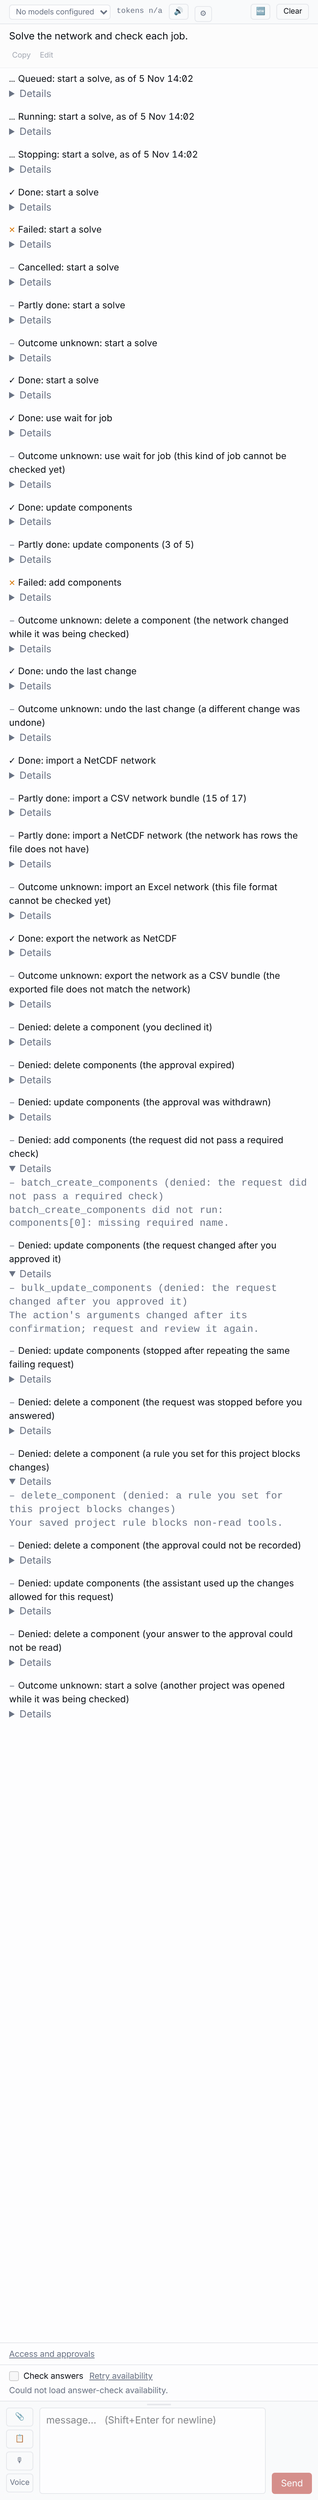
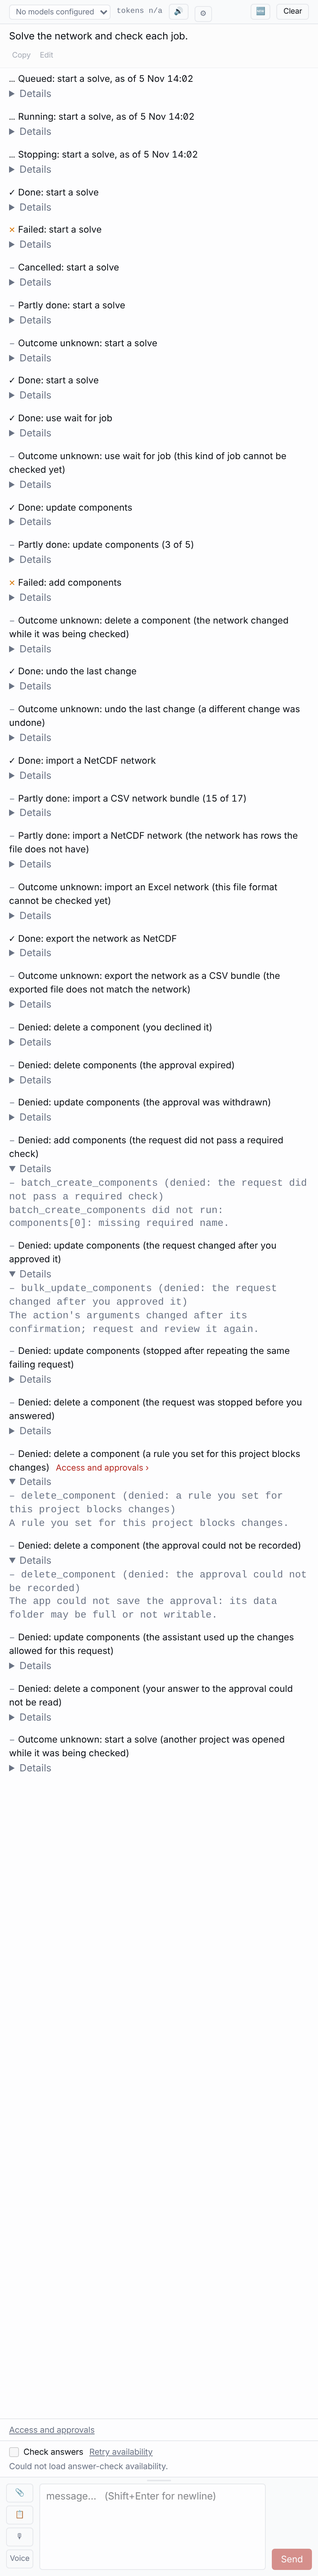
AA-04 S4a: Access and approvals link on a rule-blocked denied line
A user_restriction denied line carries "Access and approvals ›" in both
modes; it opens the same section as the link below the transcript
(ChatAccess's own open state, via openChatAccess). Fixed Details text for
user_restriction and approval_unavailable. Shots regenerated, plus a
focused shot of the linked line.

Claude-Session: https://claude.ai/code/session_01G7qCumzuJ6rKRipAiDvuDt

diff --git a/pypsa-gui/frontend/src/components/ChatPanel.toolOutcome.test.tsx b/pypsa-gui/frontend/src/components/ChatPanel.toolOutcome.test.tsx
@@ -61,6 +61,10 @@ function call(id: string, tool: string, outcome: string | null, jobId: string | 
   emit('tool_result', { tool_use_id: id, tool_name: tool,
     result: outcome === null ? { ok: true } : { _outcome: { version: 1, outcome, job_id: jobId, reason }, status: 'completed', completed: true } })
 }
+const DETAILS: Record<string, string> = {
+  user_restriction: 'A rule you set for this project blocks changes.',
+  approval_unavailable: 'The app could not save the approval: its data folder may be full or not writable.',
+}
 const rows = () => screen.getAllByTestId('chat-message').filter(r => r.dataset.role === 'tool')
 const at = new Date(2026, 10, 5, 14, 2).getTime()
 
@@ -192,7 +196,9 @@ describe('chat tool-line outcome marks', () => {
     expect(mark.dataset.outcome).toBe('denied')
     expect(mark.className).toContain('text-muted')
     expect(within(row).getByTestId('chat-tool-outcome').textContent).toBe(`–bulk_update_components (denied: ${words})`)
-    expect(within(row).getByTestId('chat-tool-message').textContent).toBe('it did not run')
+    expect(within(row).getByTestId('chat-tool-message').textContent).toBe(DETAILS[kind] ?? 'it did not run')
+    if (kind === 'user_restriction') expect(within(row).getByTestId('chat-tool-access-link')).toBeTruthy()
+    else expect(within(row).queryByTestId('chat-tool-access-link')).toBeNull()
     expect(row.textContent).not.toContain(kind)
     expect(row.textContent).not.toContain('✕')
     act(() => useUIStore.setState({ uiMode: 'guided' }))
@@ -235,6 +241,25 @@ describe('chat tool-line outcome marks', () => {
       emit('tool_error', { tool_use_id: 'y', tool_name: 'delete_component', error_kind: kind, message: 'it did not run' })
       expect(screen.getByTestId('chat-error-banner').dataset.errorKind).toBe(kind)
     })
+
+  it.each(['expert', 'guided'] as const)('issue 04 S4a: in %s, a rule-blocked line links to Access and approvals, and only that line', async (mode) => {
+    await turn(mode)
+    emit('tool_error', { tool_use_id: 'r', tool_name: 'delete_component', error_kind: 'user_restriction',
+      message: 'Your saved project rule blocks non-read tools.', _outcome: { version: 1, outcome: 'denied', reason: 'user_restriction' } })
+    emit('tool_error', { tool_use_id: 's', tool_name: 'delete_component', error_kind: 'confirmation_expired',
+      message: 'expired on confirmation for x', _outcome: { version: 1, outcome: 'denied', reason: 'confirmation_expired' } })
+    const links = screen.getAllByTestId('chat-tool-access-link')
+    expect(links).toHaveLength(1)
+    expect(links[0].textContent).toBe('Access and approvals ›')
+    expect(rows().find(r => r.contains(links[0]))!.textContent).toContain('a rule you set for this project blocks changes')
+    expect(screen.queryByText(/non-read tools/)).toBeNull()
+    const toggle = screen.getByRole('button', { name: 'Access and approvals' })
+    expect(toggle.getAttribute('aria-expanded')).toBe('false')
+    fireEvent.click(links[0])
+    expect(toggle.getAttribute('aria-expanded')).toBe('true')
+    expect(screen.getByRole('region', { name: 'Current access and approvals' })).toBeTruthy()
+    expect(document.activeElement).toBe(toggle)
+  })
 
   it('issue 04 S4a: keeps the ✗ error line for a tool_error without an outcome', async () => {
     await turn('expert')

diff --git a/pypsa-gui/frontend/src/components/ChatPanel.tsx b/pypsa-gui/frontend/src/components/ChatPanel.tsx
@@ -35,7 +35,7 @@ import { acknowledgeMountedView, type NavigationAcknowledgement } from '../utils
 import { CheckedEvidenceCard } from './CheckedEvidenceCard'
 import { CheckedChart } from './CheckedChart'
 import { CheckedAnswerControl } from './CheckedAnswerControl'
-import ChatAccess from './ChatAccess'
+import ChatAccess, { openChatAccess } from './ChatAccess'
 import { SourceGapFollowupCard } from './SourceGapFollowupCard'
 import type { HarnessTurn, SourceGapDraft } from '../store/chatStore'
 import { shortMcpToolName } from '../api/mcpSettings'
@@ -3598,6 +3598,12 @@ export default function ChatPanel({ companionAccessTarget = null, companionChoic
           if (toolLine && m.tool_use_id && DENIED_LINE.test(m.content) && messages.some(o => o !== m && o.role === 'tool'
             && o.tool_use_id === m.tool_use_id && toolOutcomeOf(o.tool_result, o.tool_name)?.outcome === 'denied')) return null
           const toolLabel = toolLine && !toolLine.hidden ? toolLine.label : null
+          // Issue 04 S4a: a call your project rule blocked links to where that rule is set.
+          const accessLink = outcomeNow?.mark.outcome === 'denied'
+            && toolOutcomeOf(m.tool_result, m.tool_name)?.reason === 'user_restriction' ? (
+              <button type="button" className="ml-2 font-sans text-[11px] text-accent hover:underline"
+                onClick={openChatAccess} data-testid="chat-tool-access-link">Access and approvals ›</button>
+            ) : null
           const toolMessage = toolLine && !toolLine.hidden ? toolLine.message ?? null : null
           return (
           <div
@@ -3636,6 +3642,7 @@ export default function ChatPanel({ companionAccessTarget = null, companionChoic
                 <>
                   {outcomeNow && <OutcomeGlyph mark={outcomeNow.mark} />}
                   <span className="font-sans text-[12px] text-text" data-testid="chat-tool-label">{toolLabel}</span>
+                  {accessLink}
                   {toolMessage && (
                     <span className="block font-sans text-[12px] text-text whitespace-pre-wrap break-words [overflow-wrap:anywhere]"
                       data-testid="chat-tool-message">{toolMessage}</span>
@@ -3651,6 +3658,7 @@ export default function ChatPanel({ companionAccessTarget = null, companionChoic
                   <span className="whitespace-pre-wrap break-words [overflow-wrap:anywhere]" data-testid="chat-tool-outcome">
                     <OutcomeGlyph mark={outcomeNow.mark} />{`${m.tool_name} (${toolOutcomeWords(outcomeNow)})`}
                   </span>
+                  {accessLink}
                   {/* Issue 04 S4a: a refusal's message, collapsed as in Guided. */}
                   {outcomeNow.mark.outcome === 'denied' && m.content.includes('\n') && (
                     <details className="mt-0.5" data-testid="chat-tool-details">

diff --git a/pypsa-gui/frontend/src/components/ChatAccess.tsx b/pypsa-gui/frontend/src/components/ChatAccess.tsx
@@ -1,4 +1,4 @@
-import { useId, useState } from 'react'
+import { useEffect, useId, useRef, useState } from 'react'
 import { useQuery, useQueryClient } from '@tanstack/react-query'
 import { getChatAccess } from '../api/chatAccess'
 import { useChatStore } from '../store/chatStore'
@@ -18,9 +18,21 @@ const blockers: Record<string, string> = {
   requested_checks_unavailable: 'Requested answer checks are unavailable on this server.',
 }
 
+// Issue 04 S4a: a denied line ("a rule you set for this project blocks
+// changes") opens this same section from the transcript.
+const openers = new Set<() => void>()
+/** Open the "Access and approvals" section, as its own toggle does. */
+export function openChatAccess(): void { openers.forEach(open => open()) }
+
 export default function ChatAccess({ checked, companion = false }: { checked: boolean; companion?: boolean }) {
   const [open, setOpen] = useState(false)
   const regionId = useId()
+  const toggle = useRef<HTMLButtonElement>(null)
+  useEffect(() => {
+    const open = () => { setOpen(true); if (!companion) toggle.current?.focus() }
+    openers.add(open)
+    return () => { openers.delete(open) }
+  }, [companion])
   const project = useUIStore(s => s.currentProject)
   const mode = useUIStore(s => s.uiMode)
   const dockOpen = useUIStore(s => s.assistantDockOpen)
@@ -62,7 +74,7 @@ export default function ChatAccess({ checked, companion = false }: { checked: bo
       </>}
       {refresh}
     </section>}
-    <button type="button" className="underline text-muted" aria-expanded={open} aria-controls={regionId}
+    <button ref={toggle} type="button" className="underline text-muted" aria-expanded={open} aria-controls={regionId}
       onClick={() => setOpen(value => !value)}>Access and approvals</button>
     {open && <section id={regionId} aria-label="Current access and approvals"
       className="mt-2 max-h-64 overflow-auto space-y-2">

diff --git a/pypsa-gui/frontend/src/components/toolOutcome.ts b/pypsa-gui/frontend/src/components/toolOutcome.ts
@@ -4,7 +4,7 @@
  * follows that outcome, never a blanket ✓.
  */
 import {
-  ACTIVITY_STATUS_WORDS, TOOL_OUTCOME_DENIED_REASON_WORDS, TOOL_OUTCOME_FILE_REASON_WORDS, TOOL_OUTCOME_PARTIAL_REASON_WORDS, TOOL_OUTCOME_REASON_WORDS,
+  ACTIVITY_STATUS_WORDS, TOOL_OUTCOME_DENIED_DETAIL_WORDS, TOOL_OUTCOME_DENIED_REASON_WORDS, TOOL_OUTCOME_FILE_REASON_WORDS, TOOL_OUTCOME_PARTIAL_REASON_WORDS, TOOL_OUTCOME_REASON_WORDS,
 } from './activityWords'
 
 /** Every outcome the backend's `_outcome.outcome` may carry (harness/outcomes.py). */
@@ -125,12 +125,14 @@ export function toolOutcomeReasonWord(outcome: string, reason: string | null, to
 
 /**
  * A refusal's backend message as plain Details text (issue 04 S4a), or null.
+ * A kind in TOOL_OUTCOME_DENIED_DETAIL_WORDS always reads its fixed text.
  * Python repr quotes around a name are dropped ('names' → names). A message
  * that still names a refusal kind, or is the confirmation gate's echo of the
  * raw decision ("deny on confirmation for …"), is withheld whole: its reason
  * is already on the line in words.
  */
 export function refusalDetail(message: string | null | undefined, kind: string): string | null {
+  if (Object.prototype.hasOwnProperty.call(TOOL_OUTCOME_DENIED_DETAIL_WORDS, kind)) return TOOL_OUTCOME_DENIED_DETAIL_WORDS[kind]
   const text = (message ?? '').trim().replace(/'([\w.[\]]+)'/g, '$1')
   if (!text || /\bon confirmation for\b/.test(text)) return null
   const words = new Set(text.match(/\w+/g))

diff --git a/pypsa-gui/frontend/src/components/activityWords.ts b/pypsa-gui/frontend/src/components/activityWords.ts
@@ -47,6 +47,12 @@ export const TOOL_OUTCOME_DENIED_REASON_WORDS: Record<string, string> = {
   no_progress_stop: 'stopped after repeating the same failing request',
 }
 
+/** A refusal's Details text where the backend's own message would mislead or name internals (issue 04 S4a). */
+export const TOOL_OUTCOME_DENIED_DETAIL_WORDS: Record<string, string> = {
+  user_restriction: 'A rule you set for this project blocks changes.',
+  approval_unavailable: 'The app could not save the approval: its data folder may be full or not writable.',
+}
+
 /** A file tool's words where they differ from a job's (issue 04 S3: import/export). */
 export const TOOL_OUTCOME_FILE_REASON_WORDS: Record<string, string> = {
   adapter_pending: 'this file format cannot be checked yet',

diff --git a/pypsa-gui/frontend/src/components/toolOutcome.test.ts b/pypsa-gui/frontend/src/components/toolOutcome.test.ts
@@ -273,6 +273,9 @@ describe('refusal details (issue 04 S4a)', () => {
     ['blocked: confirmation_expired', 'confirmation_expired', null],
     ['refused as no_progress_stop', 'required_guard_failed', null],
     ['  ', 'aborted', null],
+    ['Your saved project rule blocks non-read tools.', 'user_restriction', 'A rule you set for this project blocks changes.'],
+    ["approval for 'delete_component' could not be recorded", 'approval_unavailable',
+      'The app could not save the approval: its data folder may be full or not writable.'],
     [undefined, 'aborted', null],
   ])('%s → %s', (message, kind, detail) => {
     expect(refusalDetail(message, kind)).toBe(detail)
